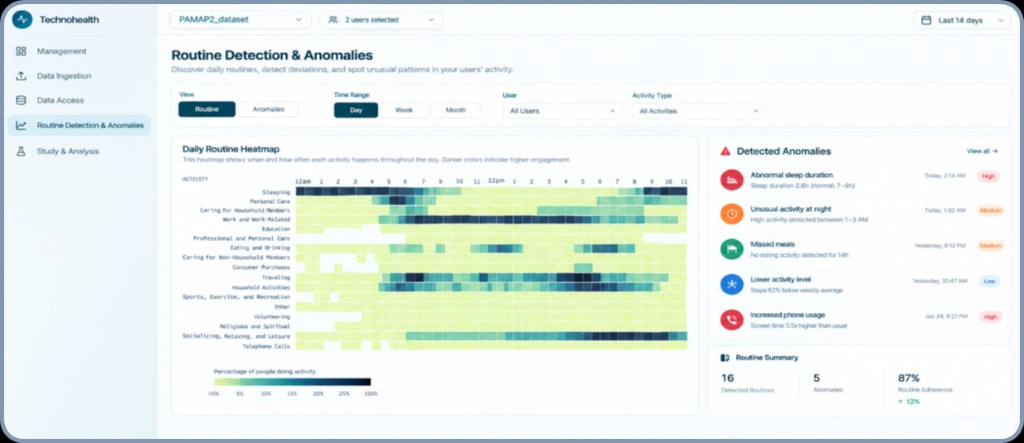
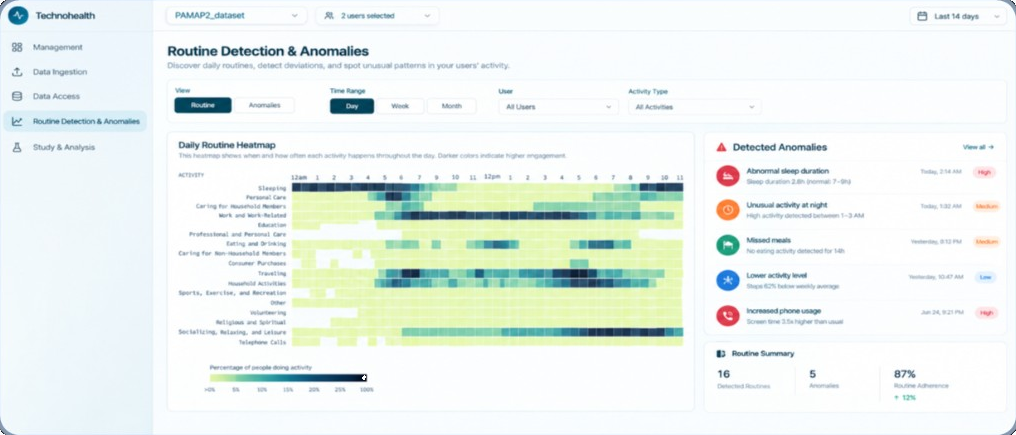
Stack Health Monitoring shots without toggle; remove black fringe.

diff --git a/src/components/BenefitsPillars.tsx b/src/components/BenefitsPillars.tsx
@@ -8,8 +8,6 @@ import monitoringImg from '../assets/platform/health-monitoring.png';
 import routinesImg from '../assets/platform/routine-anomalies.png';
 import mcpImg from '../assets/platform/mcp-icon.png';
 
-type Shot = { src: string; alt: string; label: string };
-
 type PlatformTab = {
   id: string;
   label: string;
@@ -20,8 +18,9 @@ type PlatformTab = {
   accent: string;
   features: { title: string; desc: string }[];
   media: 'icon' | 'shot' | 'cover';
-  /** Extra screenshots for Health Monitoring (and similar) */
-  shots?: Shot[];
+  /** Second screenshot stacked under the first (Health Monitoring) */
+  secondaryImage?: string;
+  secondaryImageAlt?: string;
 };
 
 export default function BenefitsPillars() {
@@ -50,21 +49,11 @@ export default function BenefitsPillars() {
       intro: t.platformTab2Intro,
       image: monitoringImg,
       imageAlt: t.platformMonitorAlt,
+      secondaryImage: routinesImg,
+      secondaryImageAlt: t.platformMonitorAltRoutines,
       icon: BrainCircuit,
       accent: 'var(--color-brand-blue-mid)',
       media: 'shot',
-      shots: [
-        {
-          src: monitoringImg,
-          alt: t.platformMonitorAlt,
-          label: t.platformMonitorShotDevices,
-        },
-        {
-          src: routinesImg,
-          alt: t.platformMonitorAltRoutines,
-          label: t.platformMonitorShotRoutines,
-        },
-      ],
       features: [
         { title: t.platformTab2F1Title, desc: t.platformTab2F1Desc },
         { title: t.platformTab2F2Title, desc: t.platformTab2F2Desc },
@@ -89,18 +78,8 @@ export default function BenefitsPillars() {
   ];
 
   const [activeId, setActiveId] = useState(tabs[0].id);
-  const [shotIndex, setShotIndex] = useState(0);
   const active = tabs.find((tab) => tab.id === activeId) ?? tabs[0];
   const ActiveIcon = active.icon;
-  const shots = active.shots;
-  const activeShot = shots?.[shotIndex] ?? shots?.[0];
-  const displaySrc = activeShot?.src ?? active.image;
-  const displayAlt = activeShot?.alt ?? active.imageAlt;
-
-  const selectTab = (id: string) => {
-    setActiveId(id);
-    setShotIndex(0);
-  };
 
   return (
     <section
@@ -118,7 +97,7 @@ export default function BenefitsPillars() {
               <button
                 key={tab.id}
                 type="button"
-                onClick={() => selectTab(tab.id)}
+                onClick={() => setActiveId(tab.id)}
                 className="relative pb-3 text-base md:text-lg font-medium tracking-tight transition-colors bg-transparent border-0 cursor-pointer"
                 style={{
                   color: isActive ? 'var(--color-brand-blue)' : 'var(--color-text-secondary)',
@@ -151,14 +130,14 @@ export default function BenefitsPillars() {
                 ? 'relative min-h-[240px] md:min-h-[420px]'
                 : active.id === 'mcp'
                   ? 'bg-white py-2 md:py-4 px-1'
-                  : 'bg-white py-4 md:py-6'
+                  : 'bg-transparent py-2 md:py-4'
             }`}
           >
             {active.media === 'cover' ? (
               <>
                 <img
-                  src={displaySrc}
-                  alt={displayAlt}
+                  src={active.image}
+                  alt={active.imageAlt}
                   className="absolute inset-0 w-full h-full object-cover"
                   loading="lazy"
                 />
@@ -178,45 +157,38 @@ export default function BenefitsPillars() {
                   <span className="text-sm font-medium text-white drop-shadow">{active.label}</span>
                 </div>
               </>
-            ) : (
-              <>
+            ) : active.secondaryImage ? (
+              <div className="relative w-full max-w-[520px]">
                 <img
-                  key={displaySrc}
-                  src={displaySrc}
-                  alt={displayAlt}
-                  className={
-                    active.media === 'icon'
-                      ? active.id === 'mcp'
-                        ? 'w-full max-w-[540px] h-auto object-contain scale-105'
-                        : 'w-full max-w-[420px] h-auto object-contain'
-                      : 'w-full h-auto max-h-[440px] object-contain object-top'
-                  }
+                  src={active.image}
+                  alt={active.imageAlt}
+                  className="relative z-0 w-full h-auto object-contain object-top bg-white rounded-md"
                   loading="lazy"
                 />
-                {shots && shots.length > 1 ? (
-                  <div className="flex items-center justify-center gap-2 mt-4">
-                    {shots.map((shot, index) => {
-                      const selected = index === shotIndex;
-                      return (
-                        <button
-                          key={shot.label}
-                          type="button"
-                          onClick={() => setShotIndex(index)}
-                          className="px-3 py-1.5 text-xs font-medium rounded-full border transition-colors cursor-pointer"
-                          style={{
-                            borderColor: selected ? active.accent : 'var(--color-border)',
-                            backgroundColor: selected ? 'var(--color-surface-info)' : 'transparent',
-                            color: selected ? active.accent : 'var(--color-text-secondary)',
-                          }}
-                          aria-pressed={selected}
-                        >
-                          {shot.label}
-                        </button>
-                      );
-                    })}
-                  </div>
-                ) : null}
-              </>
+                {/* Second shot sits over the first, shifted a bit lower */}
+                <img
+                  src={active.secondaryImage}
+                  alt={active.secondaryImageAlt || ''}
+                  className="relative z-10 w-[94%] h-auto object-contain object-top mx-auto -mt-8 md:-mt-12 rounded-md bg-[#F8FAFC]"
+                  style={{
+                    boxShadow: '0 14px 36px rgba(15, 23, 42, 0.16)',
+                  }}
+                  loading="lazy"
+                />
+              </div>
+            ) : (
+              <img
+                src={active.image}
+                alt={active.imageAlt}
+                className={
+                  active.media === 'icon'
+                    ? active.id === 'mcp'
+                      ? 'w-full max-w-[540px] h-auto object-contain scale-105'
+                      : 'w-full max-w-[420px] h-auto object-contain'
+                    : 'w-full h-auto max-h-[440px] object-contain object-top'
+                }
+                loading="lazy"
+              />
             )}
           </div>
 
